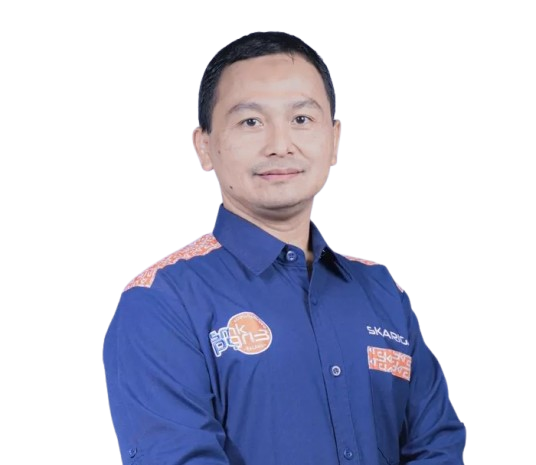
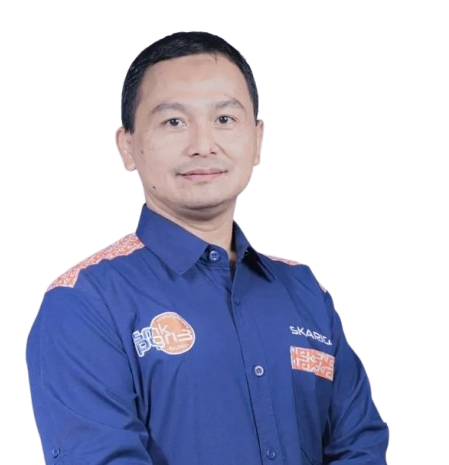
nama kepala smk

Changed region(s): [[0.0312, 0.0602, 0.8731, 1.0], [0.5612, 0.8731, 0.6236, 1.0], [0.5301, 0.8129, 0.5612, 0.8731]]

diff --git a/resources/views/profil.blade.php b/resources/views/profil.blade.php
@@ -158,25 +158,33 @@
 
         <!-- Visi -->
         <section class="w-full mx-auto pt-6 pb-10 mt-12">
-            <div class="bg-orange-500 rounded-2xl shadow-lg overflow-visible relative hover-lift hover-glow">
-                <div class="grid md:grid-cols-2 items-start relative py-12">
-                    <!-- Gambar di absolute supaya tidak memengaruhi tinggi kotak -->
-                    <div class="relative">
-                        <img src="{{ asset('assets/bp.Luqman_kepsek-removebg-preview.png') }}" alt="Visi"
-                            class="absolute top-0 left-1/2 transform -translate-x-1/2 -translate-y-[41.2%] w-full md:w-[100%] max-h-[450px] object-contain">
-                    </div>
+    <div class="bg-orange-500 rounded-2xl shadow-lg overflow-visible relative hover-lift hover-glow">
+        <div class="grid md:grid-cols-2 items-start relative py-12">
+            <!-- Gambar Kepala Sekolah -->
+            <div class="relative flex justify-center items-start">
+                <img src="{{ asset('assets/bp.Luqman_kepsek-removebg-preview.png') }}"
+                    alt="Kepala Sekolah SMK PGRI 3 Malang"
+                    class="absolute top-0 left-[40%] transform -translate-x-1/2 -translate-y-[41.2%] w-full md:w-[100%] max-h-[450px] object-contain">
 
-                    <!-- Teks -->
-                    <div class="px-8 py-8 text-white z-10">
-                        <h2 class="text-5xl font-bold mb-4">Visi</h2>
-                        <p class="text-lg leading-relaxed">
-                            Menjadi SMK yang unggul dalam prestasi dengan dilandasi Iman & Taqwa serta menghasilkan
-                            tamatan yang mampu bersaing ditingkat Nasional maupun Internasional
-                        </p>
-                    </div>
+                <!-- Nama di sebelah kanan leher -->
+                <div class="absolute top-[52%] left-[62%] text-white">
+                    <h3 class="text-lg font-bold leading-tight drop-shadow-md">Moch. Lukman Hakim, S.T., M.M.</h3>
+                    <p class="text-base font-medium opacity-90 drop-shadow-md">Kepala SMK PGRI 3 Malang</p>
                 </div>
             </div>
-        </section>
+
+            <!-- Bagian Visi -->
+            <div class="px-8 py-8 text-white z-10">
+                <h2 class="text-5xl font-bold mb-4">Visi</h2>
+                <p class="text-lg leading-relaxed">
+                    Menjadi SMK yang unggul dalam prestasi dengan dilandasi Iman &amp; Taqwa serta menghasilkan
+                    tamatan yang mampu bersaing di tingkat Nasional maupun Internasional.
+                </p>
+            </div>
+        </div>
+    </div>
+</section>
+
 
         <!-- Misi -->
         <section class="w-full mx-auto pt-6 pb-10">
